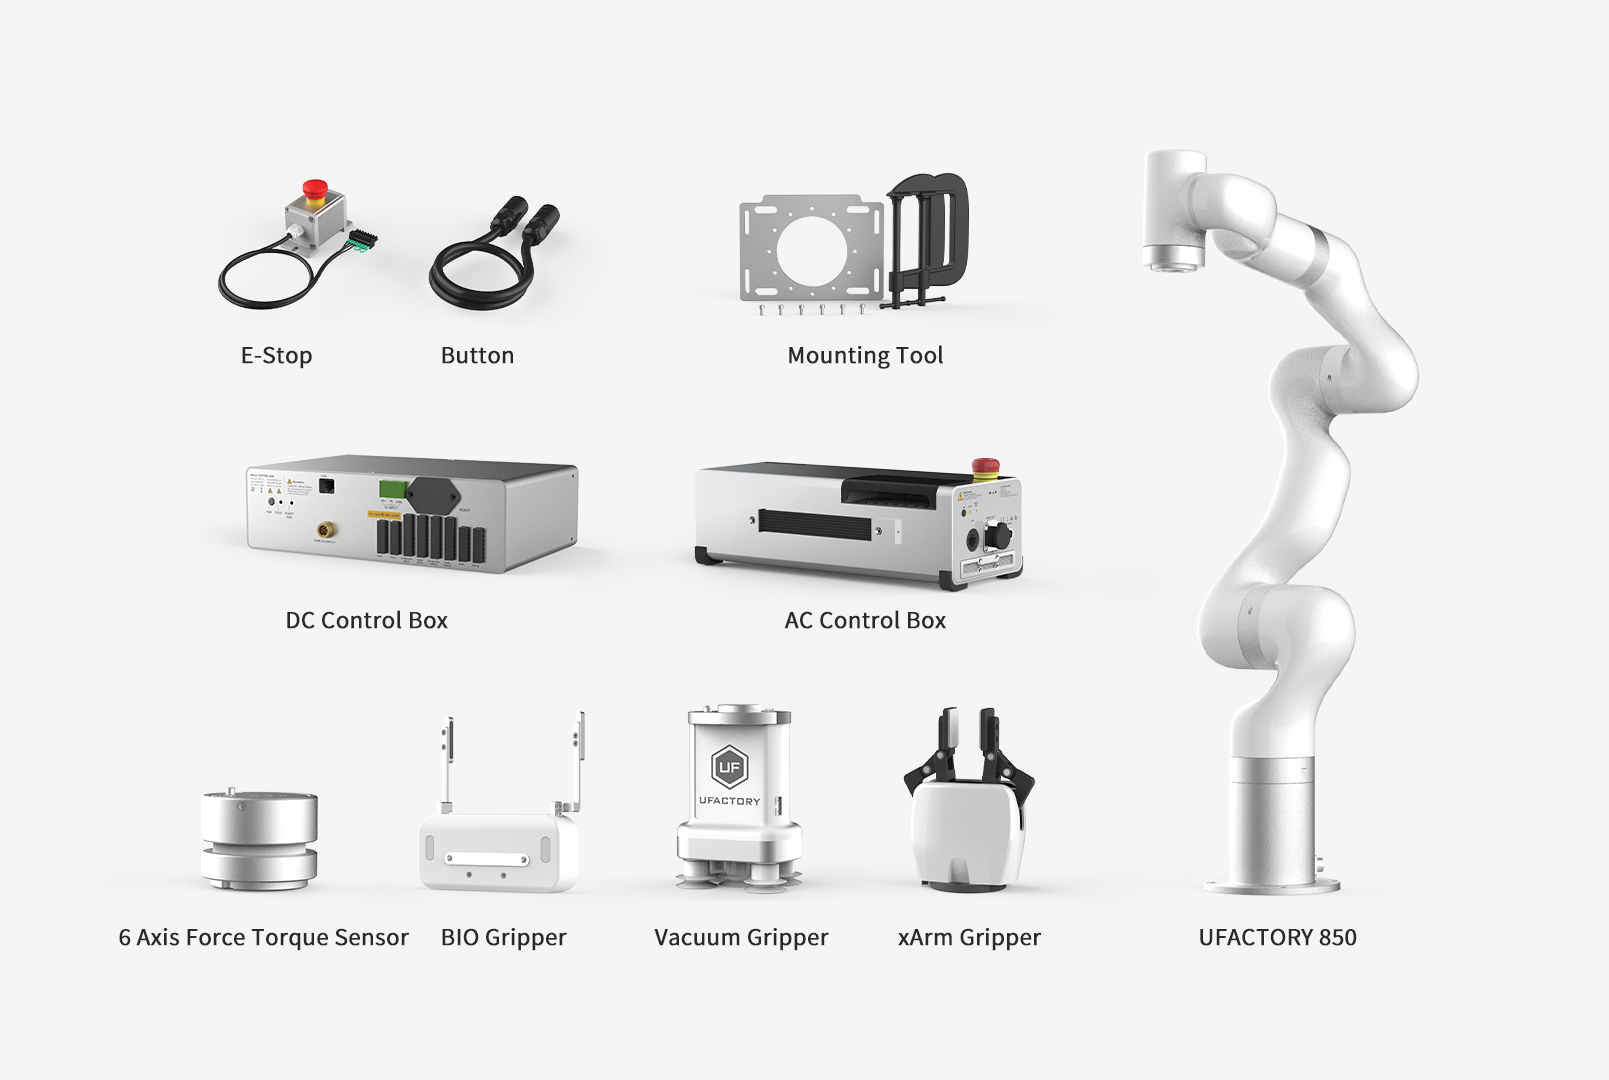
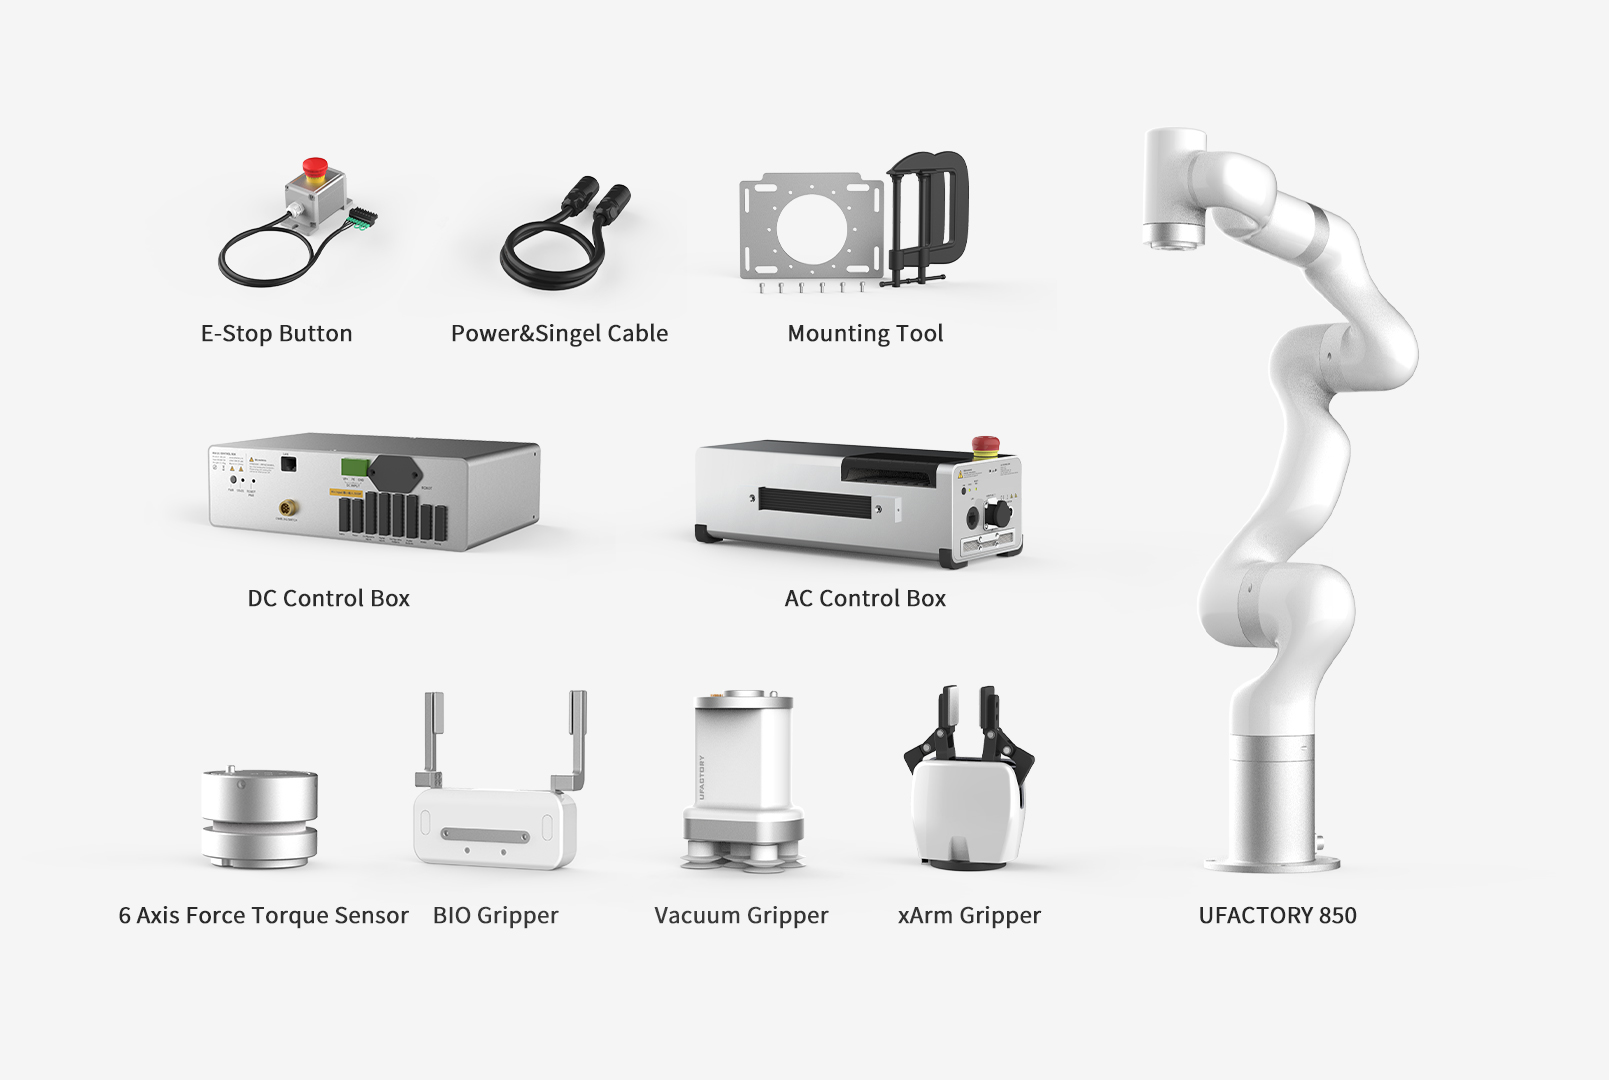
update

diff --git a/en/3.controller_electrical_interface.md b/en/3.controller_electrical_interface.md
@@ -276,3 +276,20 @@ PIN Connection:
 3. Support standard Modbus RTU or not.
 * If end effector supports standard Modbus RTU, user can debug it via '[Settings-Externals-Modbus RTU](https://docs.ufactory.cc/user_manual/ufactoryStudio/7.settings.html#_7-2-5-modbus-rtu)', RS-485 port please choose as 'Control Box'.
 * If end effector doesn't support standard Modbus RTU, user can send the command via [getset_tgpio_modbus_data](https://github.com/xArm-Developer/xArm-Python-SDK/blob/master/example/wrapper/common/5000-set_tgpio_modbus.py), please set is_transparent_transmission to True, the host_id=10.
+
+### 3.4.5 Reset IP
+If you change the IP address, be sure to mark it on the control box. If you forget or lose the modified IP address, you can use the following method to reset the IP.  
+
+Reset IP:
+1. Press the emergency stop button and turn off the power of the control box.
+2. Connect RI0 to GND with a cable.
+![](assets/reset_ip.jpg)
+3. Turn on the power of the robot. After hearing the sound of 'beep', it means that the IP address of the robot has been reset successfully. The reset IP is 192.168.1.111.
+4. Please unplug the cable connecting RI0 and GND and wait for the robot to start up (60 seconds).
+5. Enter 192.168.1.111:18333 in the browser to connect the robot.
+
+
+### 3.4.6 Remote ON/OFF
+![](assets/onoff.jpg)
+Remote ON: Short ON to GND.
+Remote OFF: Short ON to GND.

diff --git a/zhHans/3.controller_electrical_interface.md b/zhHans/3.controller_electrical_interface.md
@@ -256,3 +256,17 @@ L_A和L_B为预留的RS485接口，暂时无功能，不可使用。
 * 若第三方设备支持标准Modbus RTU协议，可通过UFACTORY Studio的[Modbus RTU](http://docs.usermanual.ufactory.cc/user_manual/ufactoryStudio/7.settings.html#_7-2-5-modbus-rtu)界面进行调试操作，RS-485端口选择控制盒。
 * 如第三方设备不支持标准Modbus RTU协议，需要通过[getset_tgpio_modbus_data](https://github.com/xArm-Developer/xArm-Python-SDK/blob/master/example/wrapper/common/5000-set_tgpio_modbus.py)接口进行操作，并将is_transparent_transmission参数设置为True，host_id设置为10。
 
+### 3.4.5 如何重置IP（RI0）
+若更改了IP地址，务必在控制器上做好标注，以免出现不知道控制器IP地址的情况，如果忘记或丢失修改后的IP地址，可用下面的方法重置IP。
+
+1. 按下急停开关，关闭xArm 控制器电源。
+2. 用导线将RI0与GND连接。
+![](assets/reset_ip.jpg)
+3. 开启xArm 控制器电源，旋转急停开关，听到“滴”的一声之后，表示控制器IP已经重置成功。重置后的IP 为：192.168.1.111。
+4. 请拔掉连接RI0和GND的导线，等待控制器启动完成（60秒）即可。
+5. 在浏览器中输入192.168.1.111:18333，连接机械臂。
+
+### 3.4.6 如何远程开关机（ON/OFF）
+![](assets/onoff.jpg)
+* 开机：ON短接GND。
+* 关机：OFF短接GND。